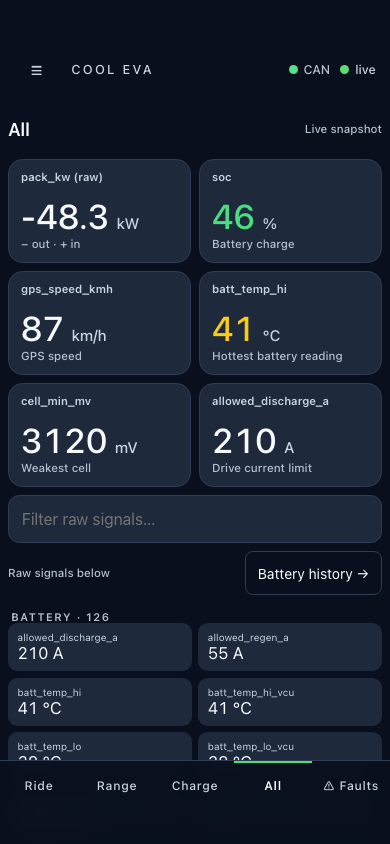
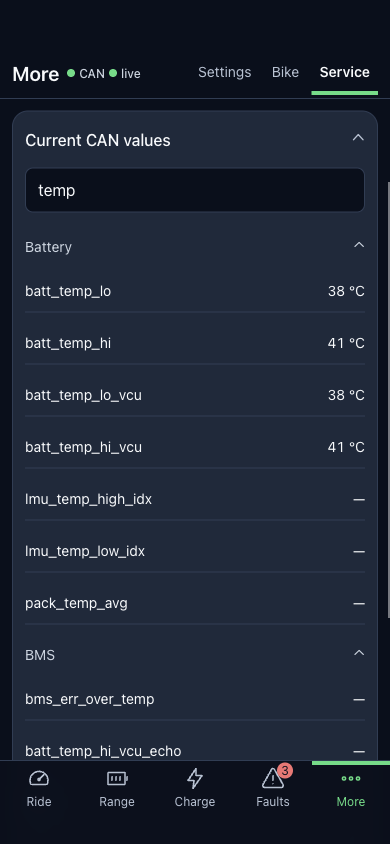
Refresh README dashboard screenshots
From Daniel's AI agent.

Replace the seven dark screenshots with current phone captures from preview fixtures. Keep Cooling under Ride and show Current CAN values in Service as the successor to All. Update the existing gallery labels, alt text and captions.

diff --git a/README.md b/README.md
@@ -10,13 +10,13 @@ Current dashboard with synthetic sample data; coolant readings use the optional 
 
 | Ride | Charge | Faults |
 | :-: | :-: | :-: |
-| [<img src="docs/images/dashboard-ride-dark.png" width="180" alt="Ride screen showing speed, drive power, available power and coolant readings">](docs/images/dashboard-ride-dark.png) | [<img src="docs/images/dashboard-charge-dark.png" width="180" alt="Charge screen showing delivered power, estimated arrival, current request and observed temperature limits">](docs/images/dashboard-charge-dark.png) | [<img src="docs/images/dashboard-faults-dark.png" width="180" alt="Faults summary with the whole count, expected split and two named previews">](docs/images/dashboard-faults-dark.png) |
-| Speed, power and power limits. | Charging, temperature curve and current request. | Counts and named trouble codes; full report one tap away. |
+| [<img src="docs/images/dashboard-ride-dark.png" width="180" alt="Ride screen showing speed, drive power limits, battery temperatures and coolant difference">](docs/images/dashboard-ride-dark.png) | [<img src="docs/images/dashboard-charge-dark.png" width="180" alt="Charge screen showing delivered power, time to saved limit, temperature curve and bike charge limit">](docs/images/dashboard-charge-dark.png) | [<img src="docs/images/dashboard-faults-dark.png" width="180" alt="Faults screen showing active trouble codes, an expected fault and the Stored faults section">](docs/images/dashboard-faults-dark.png) |
+| Speed, power, battery temperature and coolant. | Delivered power, time to limit and temperature curve. | Active and stored faults on one page. |
 
-| Cooling | Range | Cells | All |
+| Cooling | Range | Cells | Current CAN values |
 | :-: | :-: | :-: | :-: |
-| [<img src="docs/images/dashboard-cooling-dark.png" width="180" alt="Cooling screen with coolant, battery, motor and ambient temperatures plus fan status">](docs/images/dashboard-cooling-dark.png) | [<img src="docs/images/dashboard-range-dark.png" width="180" alt="Range screen with weakest-cell margin and drive and regen current allowances">](docs/images/dashboard-range-dark.png) | [<img src="docs/images/dashboard-cells-dark.png" width="180" alt="Cells sub-tab with the complete 81-cell strip, voltage spread and cell positions">](docs/images/dashboard-cells-dark.png) | [<img src="docs/images/dashboard-all-dark.png" width="180" alt="All screen with six live readings above the filter and raw signal grid">](docs/images/dashboard-all-dark.png) |
-| Temperatures and fan status. | Weak-cell margin and current allowances. | All 81 cell voltages. | Live snapshot; raw signals below. |
+| [<img src="docs/images/dashboard-cooling-dark.png" width="180" alt="Cooling sub-tab with coolant in and out, motor and outside air temperatures plus fan control">](docs/images/dashboard-cooling-dark.png) | [<img src="docs/images/dashboard-range-dark.png" width="180" alt="Range screen with limp and stop margins, drive and regen allowances, energy left and remaining range">](docs/images/dashboard-range-dark.png) | [<img src="docs/images/dashboard-cells-dark.png" width="180" alt="Cells temperature map showing nine modules, eleven LMUs and dashed LMU boundaries">](docs/images/dashboard-cells-dark.png) | [<img src="docs/images/dashboard-all-dark.png" width="180" alt="Service's Current CAN values filtered to temperature readings">](docs/images/dashboard-all-dark.png) |
+| Coolant, motor, outside air and fan. | Cell margins, current allowances and range. | Map of nine modules with LMU boundaries. | Searchable current CAN values in Service. |
 
 ## What to buy
 
